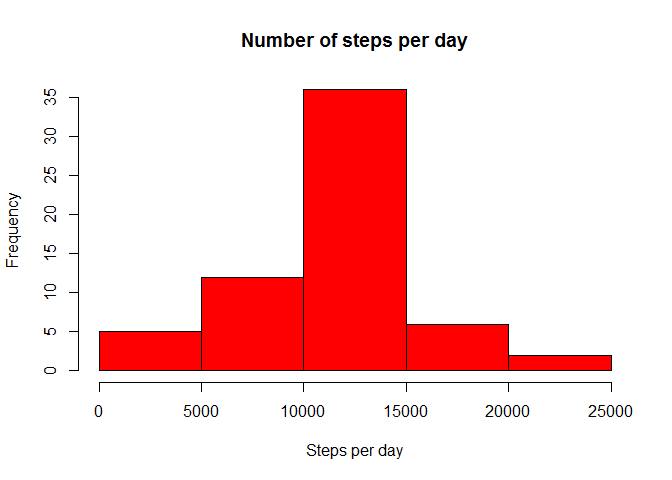
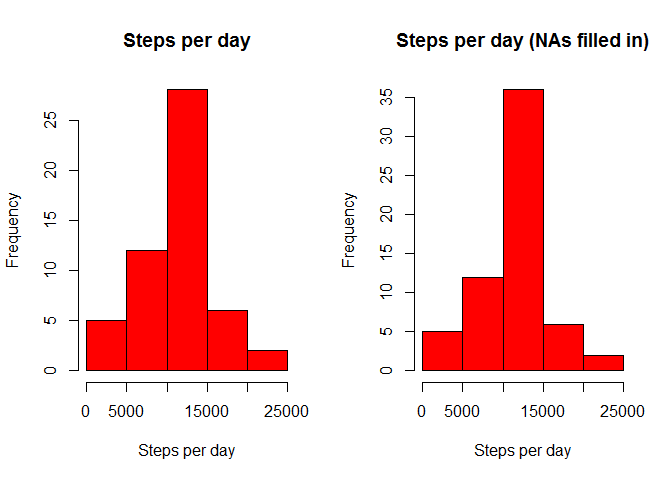
Last question done (panel plot not ready yet)

diff --git a/PA1_template.html b/PA1_template.html
@@ -109,7 +109,8 @@ missingStepsValues &lt;- which(is.na(activityData$steps))
 # Second Compute the number of rows with missing values
 length(missingStepsValues)</code></pre>
 <pre><code>## [1] 2304</code></pre>
-<pre class="r"><code>modifActivityData &lt;- activityData
+<pre class="r"><code># Create a new dataset with the NAs filled in with the mean of steps for that interval
+modifActivityData &lt;- activityData
 for(i in missingStepsValues) {
   modifActivityData[i,&quot;steps&quot;] &lt;- aggregatedData2[aggregatedData2$interval == modifActivityData[i, &quot;interval&quot;], &quot;steps&quot;]
 }
@@ -118,11 +119,44 @@ for(i in missingStepsValues) {
 aggregatedData3 &lt;- aggregate(steps~date, data=modifActivityData, FUN=&quot;sum&quot;)
 
 # Histogram of the total number of steps taken per day
-with(aggregatedData3, hist(steps, main = &quot;Number of steps per day&quot;, xlab = &quot;Steps per day&quot;, col=&quot;red&quot;))</code></pre>
[1 lines of base64/hex data omitted]
+par(mfcol = c(1,2))
+
+# Repeat previous histogram for comparison
+with(aggregatedData, hist(steps, main = &quot;Steps per day&quot;, xlab = &quot;Steps per day&quot;, col=&quot;red&quot;))
+
+# Make a histogram of the steps taken per day (NAs filled in)
+with(aggregatedData3, hist(steps, main = &quot;Steps per day (NAs filled in)&quot;, xlab = &quot;Steps per day&quot;, col=&quot;red&quot;))</code></pre>
[1 lines of base64/hex data omitted]
+<pre class="r"><code># Report the mean and median of the total number of steps taken per day (the medians are equal now, the means were equal before the filling of NAs)
+mean(aggregatedData3$steps)</code></pre>
+<pre><code>## [1] 10766.19</code></pre>
+<pre class="r"><code>median(aggregatedData3$steps)</code></pre>
+<pre><code>## [1] 10766.19</code></pre>
 </div>
 <div id="are-there-differences-in-activity-patterns-between-weekdays-and-weekends" class="section level2">
 <h2>Are there differences in activity patterns between weekdays and weekends?</h2>
+<pre class="r"><code>weekdayVar &lt;- weekdays(strptime(activityData$date, &quot;%Y-%m-%d&quot;))
+indicesWeekEnds &lt;- which(weekdayVar == &quot;Sunday&quot; | weekdayVar == &quot;Saturday&quot;)
+indicesWeekdays &lt;- which(weekdayVar != &quot;Sunday&quot; &amp; weekdayVar != &quot;Saturday&quot;)
+weekdayVar[indicesWeekEnds] &lt;- &quot;weekend&quot;
+weekdayVar[indicesWeekdays] &lt;- &quot;weekday&quot;
+weekdayVar &lt;- as.factor(weekdayVar)
+
+modifActivityData2 &lt;- cbind(modifActivityData, weekdayVar)
+stepsWeekday &lt;- modifActivityData2[weekdayVar == &quot;weekday&quot;,]
+stepsWeekend &lt;- modifActivityData2[weekdayVar == &quot;weekend&quot;,]
+aggregatedData4 &lt;- aggregate(steps~interval, data=stepsWeekday, FUN=&quot;mean&quot;)
+aggregatedData5 &lt;- aggregate(steps~interval, data=stepsWeekend, FUN=&quot;mean&quot;)
+
+# Histogram of the total number of steps taken per day
+par(mfcol = c(1,2))
+
+# Repeat previous histogram for comparison
+with(aggregatedData4, plot(interval, steps, type = &quot;l&quot;, main = &quot;Steps taken on weekdays&quot;, ylab = &quot;Mean number of steps&quot;, xlab =&quot;Interval of the day&quot;))
+
+# Make a histogram of the steps taken per day (NAs filled in)
+with(aggregatedData5, plot(interval, steps, type = &quot;l&quot;, main = &quot;Steps taken on weekends&quot;, ylab = &quot;Mean number of steps&quot;, xlab =&quot;Intervalof the day&quot;))</code></pre>
[1 lines of base64/hex data omitted]
 </div>
 
 

diff --git a/PA1_template.md b/PA1_template.md
@@ -83,6 +83,7 @@ length(missingStepsValues)
 ```
 
 ```r
+# Create a new dataset with the NAs filled in with the mean of steps for that interval
 modifActivityData <- activityData
 for(i in missingStepsValues) {
   modifActivityData[i,"steps"] <- aggregatedData2[aggregatedData2$interval == modifActivityData[i, "interval"], "steps"]
@@ -92,9 +93,59 @@ for(i in missingStepsValues) {
 aggregatedData3 <- aggregate(steps~date, data=modifActivityData, FUN="sum")
 
 # Histogram of the total number of steps taken per day
-with(aggregatedData3, hist(steps, main = "Number of steps per day", xlab = "Steps per day", col="red"))
+par(mfcol = c(1,2))
+
+# Repeat previous histogram for comparison
+with(aggregatedData, hist(steps, main = "Steps per day", xlab = "Steps per day", col="red"))
+
+# Make a histogram of the steps taken per day (NAs filled in)
+with(aggregatedData3, hist(steps, main = "Steps per day (NAs filled in)", xlab = "Steps per day", col="red"))
 ```
 
 ![](PA1_template_files/figure-html/unnamed-chunk-4-1.png) 
 
+```r
+# Report the mean and median of the total number of steps taken per day (the medians are equal now, the means were equal before the filling of NAs)
+mean(aggregatedData3$steps)
+```
+
+```
+## [1] 10766.19
+```
+
+```r
+median(aggregatedData3$steps)
+```
+
+```
+## [1] 10766.19
+```
+
 ## Are there differences in activity patterns between weekdays and weekends?
+
+
+```r
+weekdayVar <- weekdays(strptime(activityData$date, "%Y-%m-%d"))
+indicesWeekEnds <- which(weekdayVar == "Sunday" | weekdayVar == "Saturday")
+indicesWeekdays <- which(weekdayVar != "Sunday" & weekdayVar != "Saturday")
+weekdayVar[indicesWeekEnds] <- "weekend"
+weekdayVar[indicesWeekdays] <- "weekday"
+weekdayVar <- as.factor(weekdayVar)
+
+modifActivityData2 <- cbind(modifActivityData, weekdayVar)
+stepsWeekday <- modifActivityData2[weekdayVar == "weekday",]
+stepsWeekend <- modifActivityData2[weekdayVar == "weekend",]
+aggregatedData4 <- aggregate(steps~interval, data=stepsWeekday, FUN="mean")
+aggregatedData5 <- aggregate(steps~interval, data=stepsWeekend, FUN="mean")
+
+# Histogram of the total number of steps taken per day
+par(mfcol = c(1,2))
+
+# Repeat previous histogram for comparison
+with(aggregatedData4, plot(interval, steps, type = "l", main = "Steps taken on weekdays", ylab = "Mean number of steps", xlab ="Interval of the day"))
+
+# Make a histogram of the steps taken per day (NAs filled in)
+with(aggregatedData5, plot(interval, steps, type = "l", main = "Steps taken on weekends", ylab = "Mean number of steps", xlab ="Intervalof the day"))
+```
+
+![](PA1_template_files/figure-html/unnamed-chunk-5-1.png) 
